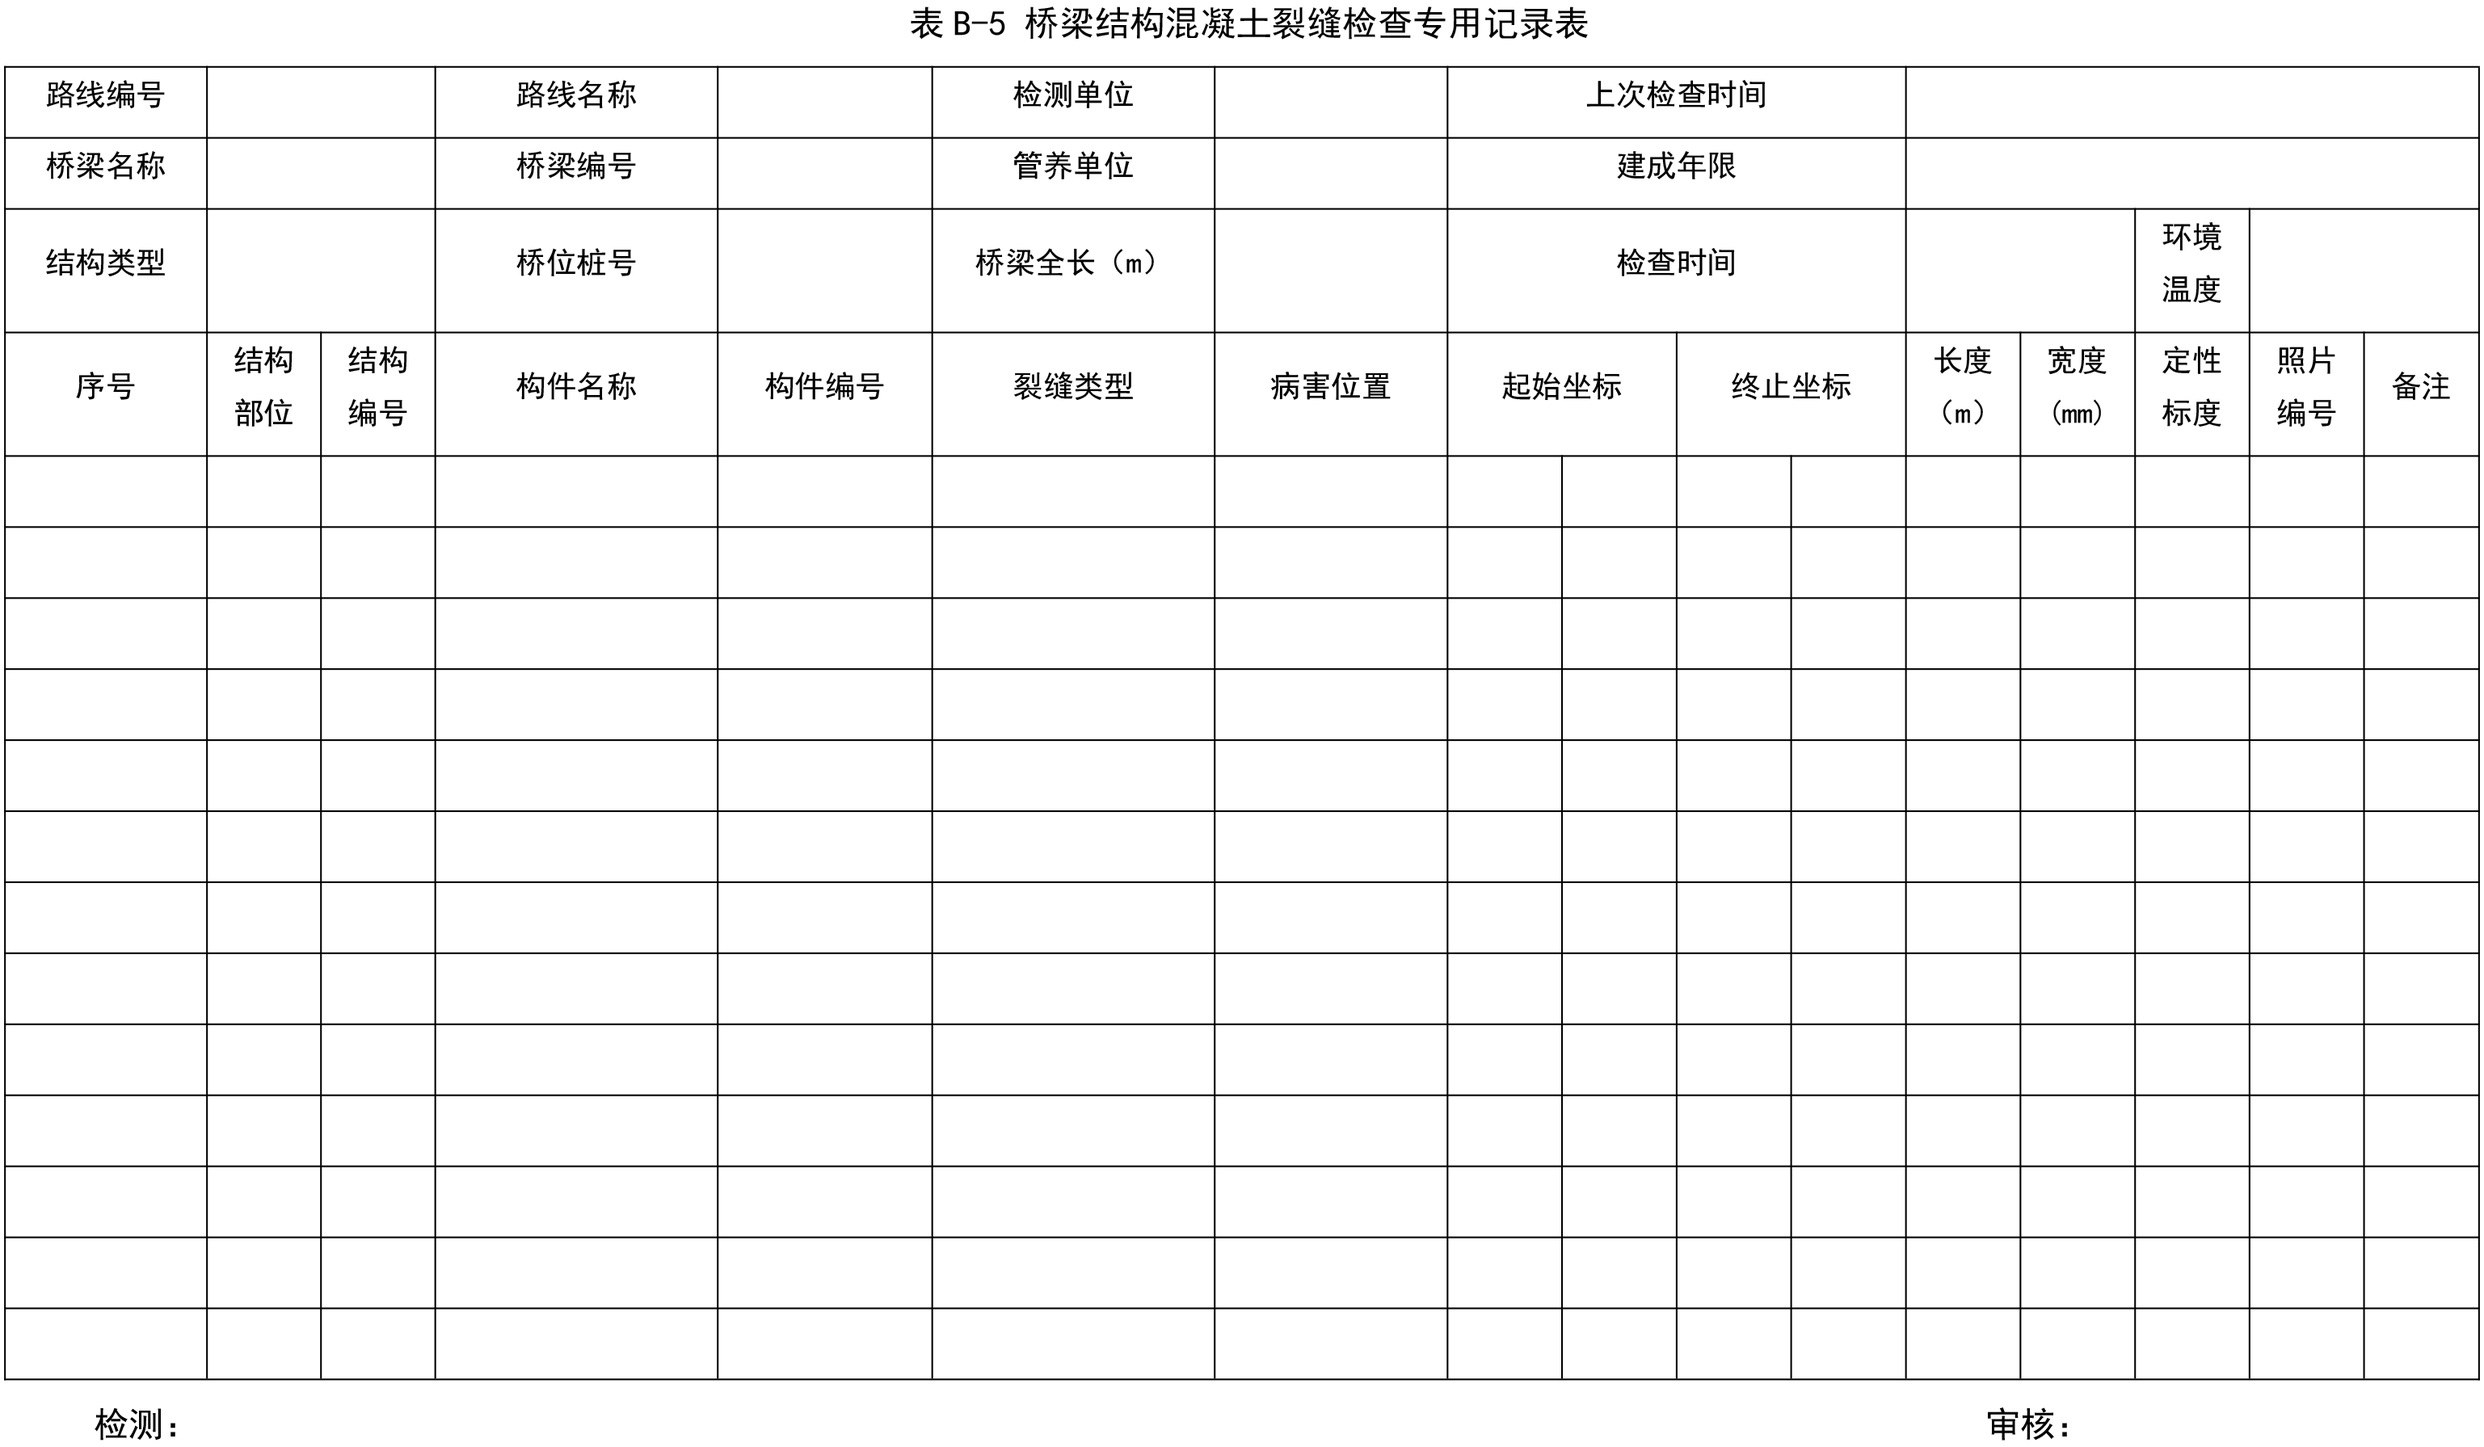
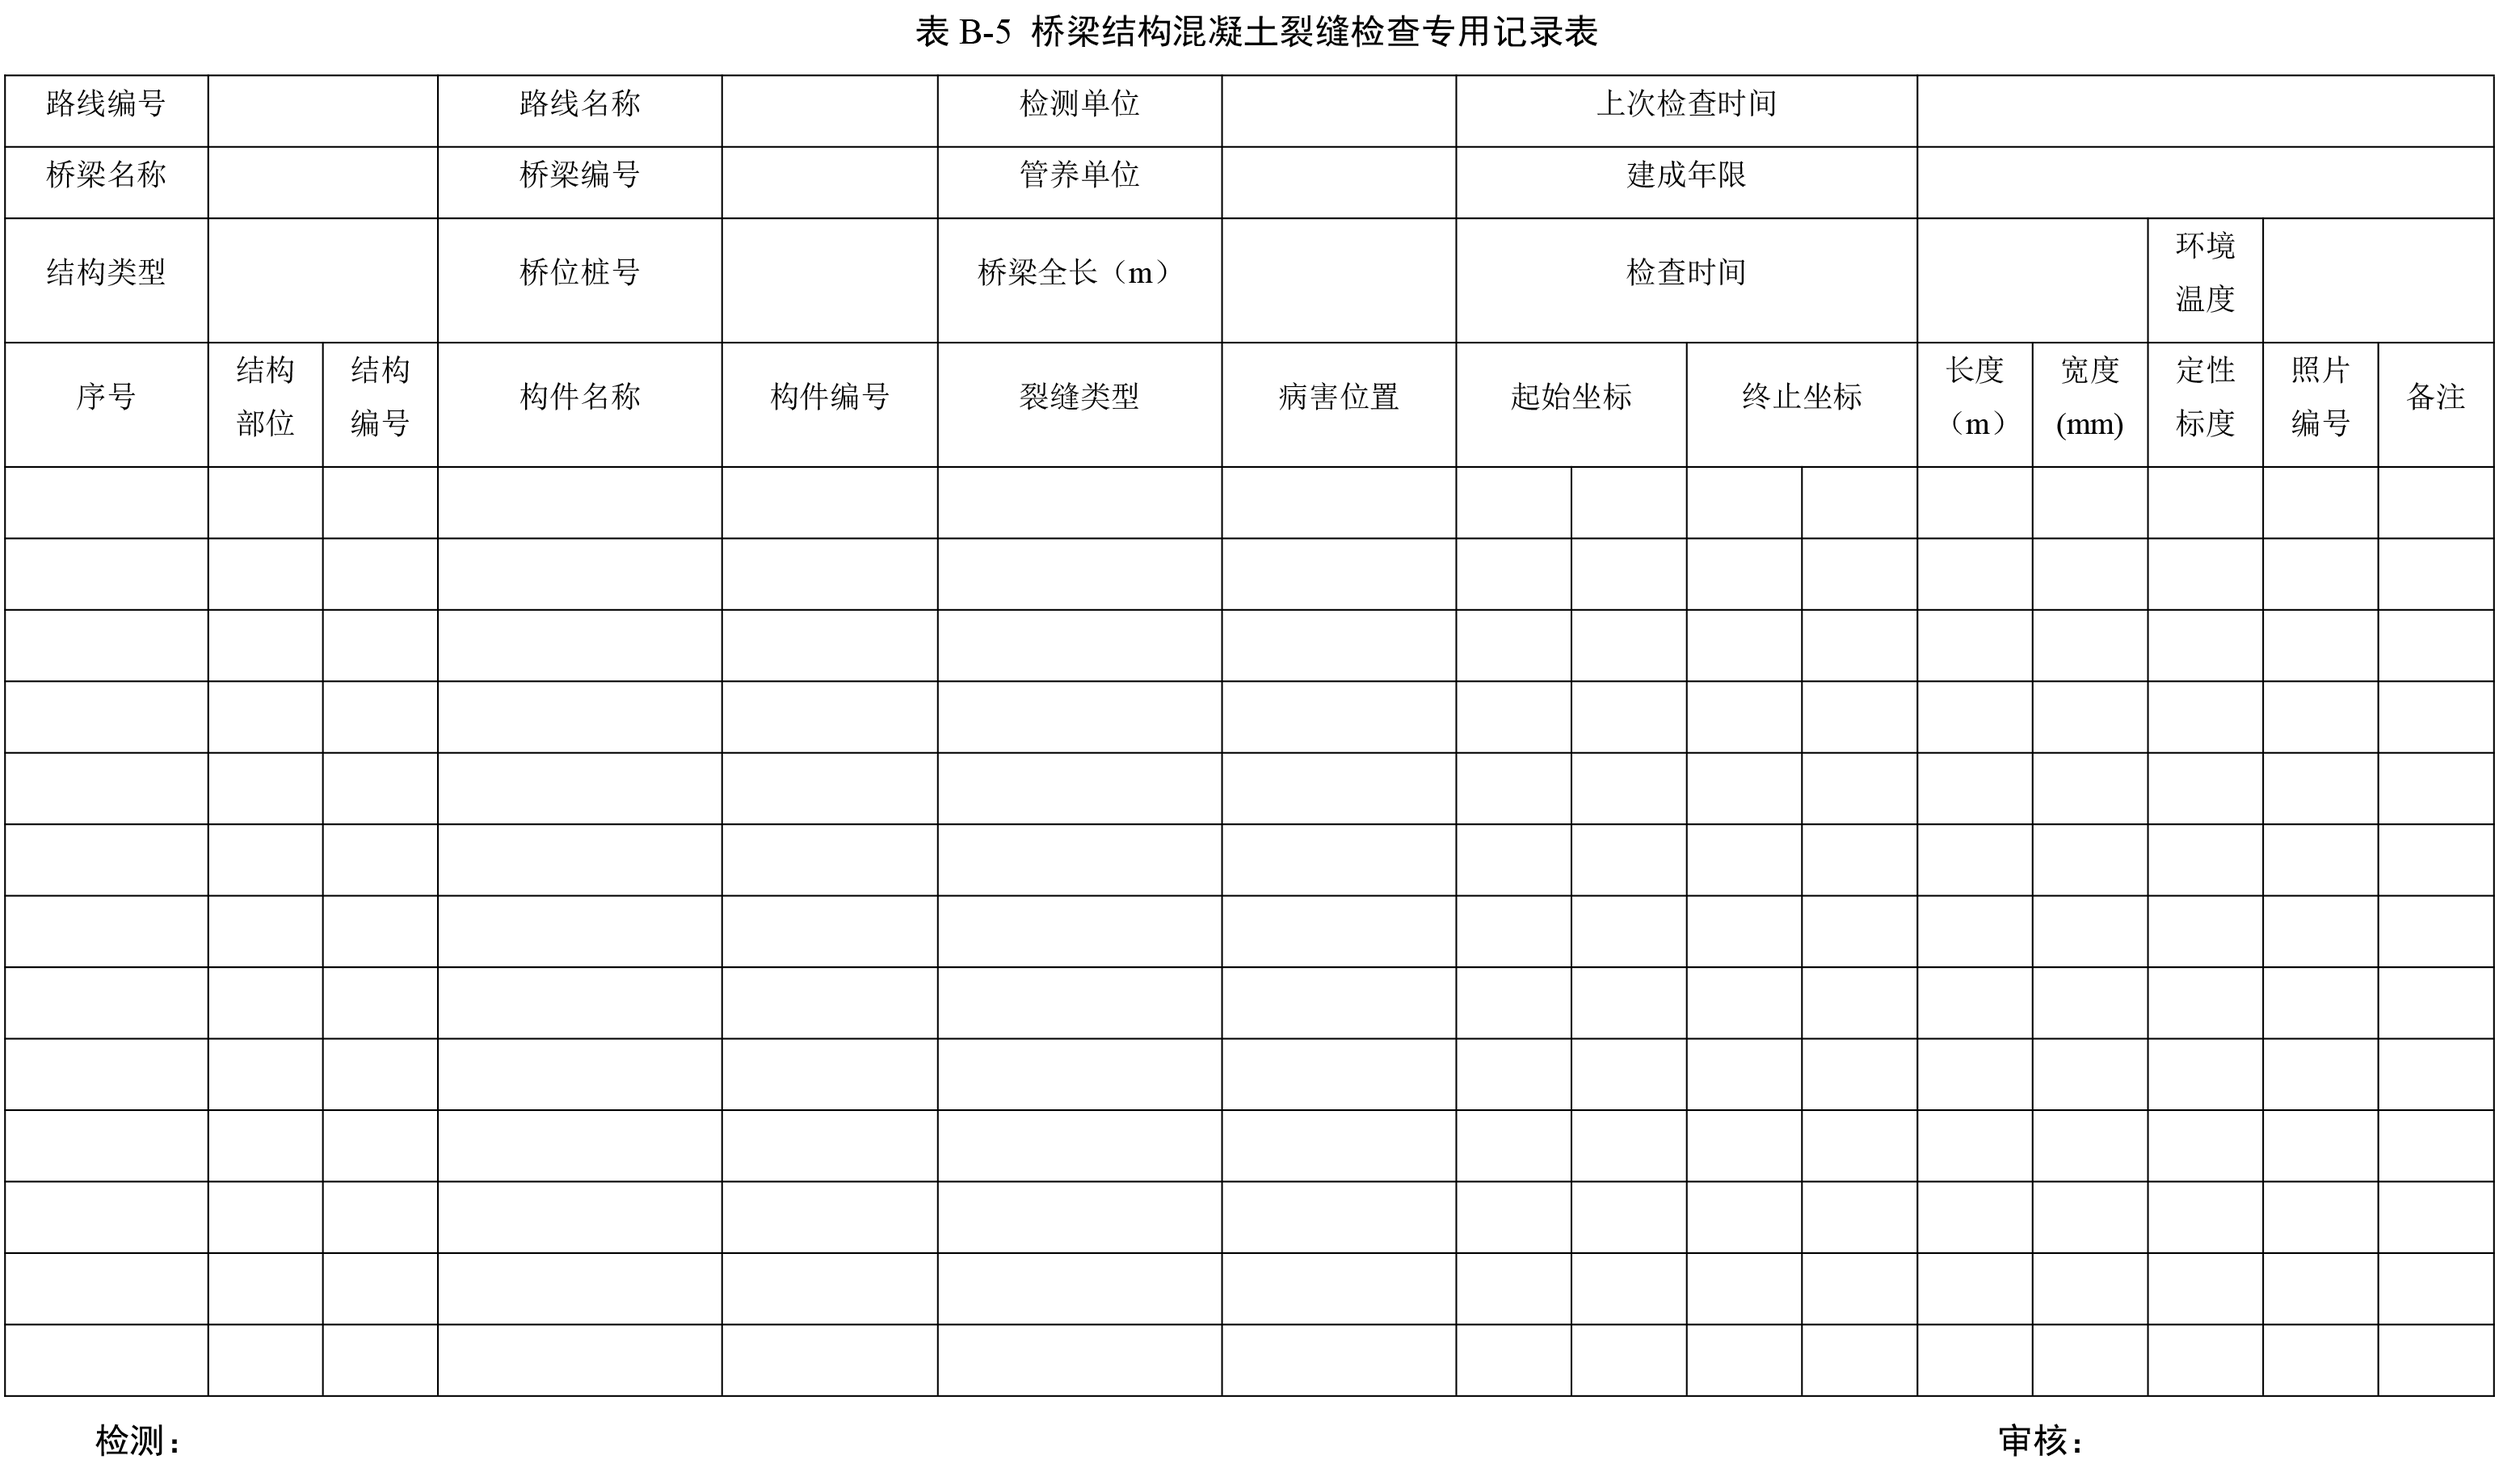
update250700

diff --git a/build/html/FLB.html b/build/html/FLB.html
@@ -90,7 +90,7 @@
 <h2 id="test111">附录B  桥梁初始检查记录表</h2> <div align="center"><img id="BB.1" src="./_static/fig/B.1.png" alt="Picture" width="900px"></div>
 <script type="text/javascript">var viewer = new Viewer(document.getElementById('BB.1'));</script>
 <P>   </P>
- <div align="center"><img id="BB.2" src="./_static/fig/B.2.png" alt="Picture" width="600px"></div>
+ <div align="center"><img id="BB.2" src="./_static/fig/B.2.png" alt="Picture" width="650px"></div>
 <script type="text/javascript">var viewer = new Viewer(document.getElementById('BB.2'));</script>
 <P>   </P>
  <div align="center"><img id="BB.3" src="./_static/fig/B.3.png" alt="Picture" width="900px"></div>

diff --git a/docs/FLB.html b/docs/FLB.html
@@ -90,7 +90,7 @@
 <h2 id="test111">附录B  桥梁初始检查记录表</h2> <div align="center"><img id="BB.1" src="./_static/fig/B.1.png" alt="Picture" width="900px"></div>
 <script type="text/javascript">var viewer = new Viewer(document.getElementById('BB.1'));</script>
 <P>   </P>
- <div align="center"><img id="BB.2" src="./_static/fig/B.2.png" alt="Picture" width="600px"></div>
+ <div align="center"><img id="BB.2" src="./_static/fig/B.2.png" alt="Picture" width="650px"></div>
 <script type="text/javascript">var viewer = new Viewer(document.getElementById('BB.2'));</script>
 <P>   </P>
  <div align="center"><img id="BB.3" src="./_static/fig/B.3.png" alt="Picture" width="900px"></div>

diff --git a/docs/FLB.rst b/docs/FLB.rst
@@ -11,7 +11,7 @@
    <div align="center"><img id="BB.1" src="./_static/fig/B.1.png" alt="Picture" width="900px"></div>
   <script type="text/javascript">var viewer = new Viewer(document.getElementById('BB.1'));</script>
   <P>   </P>
-   <div align="center"><img id="BB.2" src="./_static/fig/B.2.png" alt="Picture" width="600px"></div>
+   <div align="center"><img id="BB.2" src="./_static/fig/B.2.png" alt="Picture" width="650px"></div>
   <script type="text/javascript">var viewer = new Viewer(document.getElementById('BB.2'));</script>
   <P>   </P>
    <div align="center"><img id="BB.3" src="./_static/fig/B.3.png" alt="Picture" width="900px"></div>

diff --git a/source/FLB.rst b/source/FLB.rst
@@ -11,7 +11,7 @@
    <div align="center"><img id="BB.1" src="./_static/fig/B.1.png" alt="Picture" width="900px"></div>
   <script type="text/javascript">var viewer = new Viewer(document.getElementById('BB.1'));</script>
   <P>   </P>
-   <div align="center"><img id="BB.2" src="./_static/fig/B.2.png" alt="Picture" width="600px"></div>
+   <div align="center"><img id="BB.2" src="./_static/fig/B.2.png" alt="Picture" width="650px"></div>
   <script type="text/javascript">var viewer = new Viewer(document.getElementById('BB.2'));</script>
   <P>   </P>
    <div align="center"><img id="BB.3" src="./_static/fig/B.3.png" alt="Picture" width="900px"></div>
